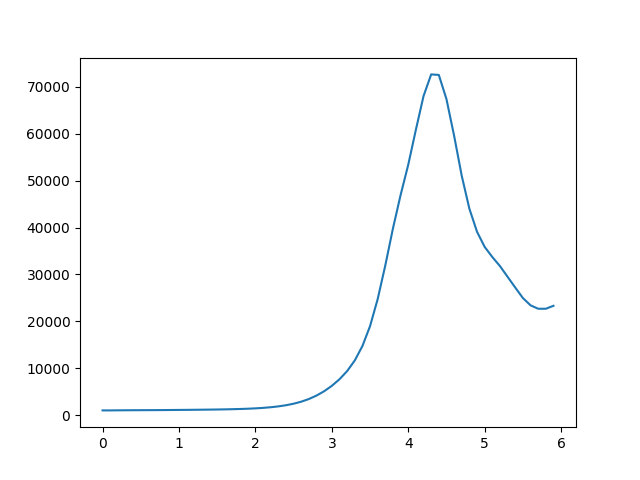
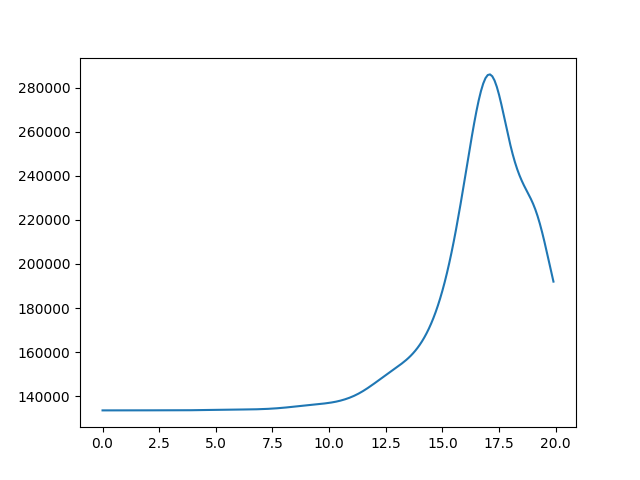
commit to pull

diff --git a/diagnostics/h5plotter.py b/diagnostics/h5plotter.py
@@ -93,7 +93,7 @@ number_ranks = 4
 grid_x_max = 4
 grid_y_max = 1
 
-counter = 60
+counter = 200
 
 #lx = 34./3.
 #ly = 14./3.
@@ -122,7 +122,7 @@ rank_id = []
 vec_part = []
 
 for i in range(0, number_ranks):
-    filename = results_path + "final_sim_small_rank_" + str(i) + ".h5"
+    filename = results_path + "final_sim_np4_rank_" + str(i) + ".h5"
     filename_vec.append(filename)
 
 # print(filename_vec)
